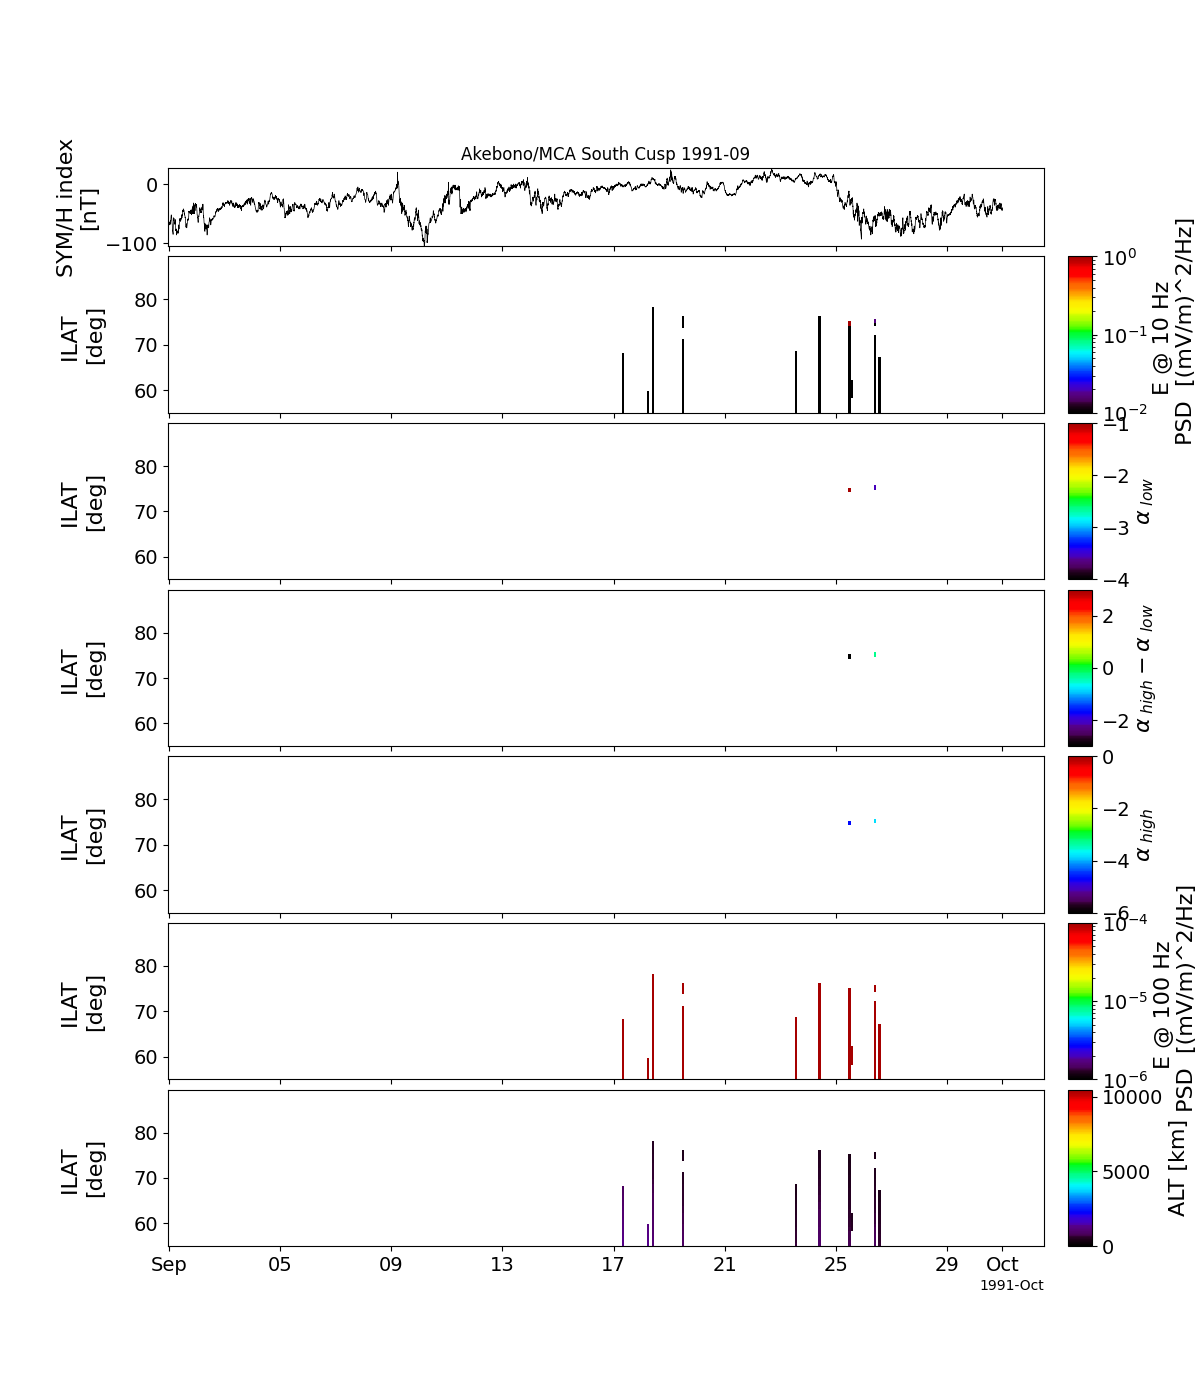
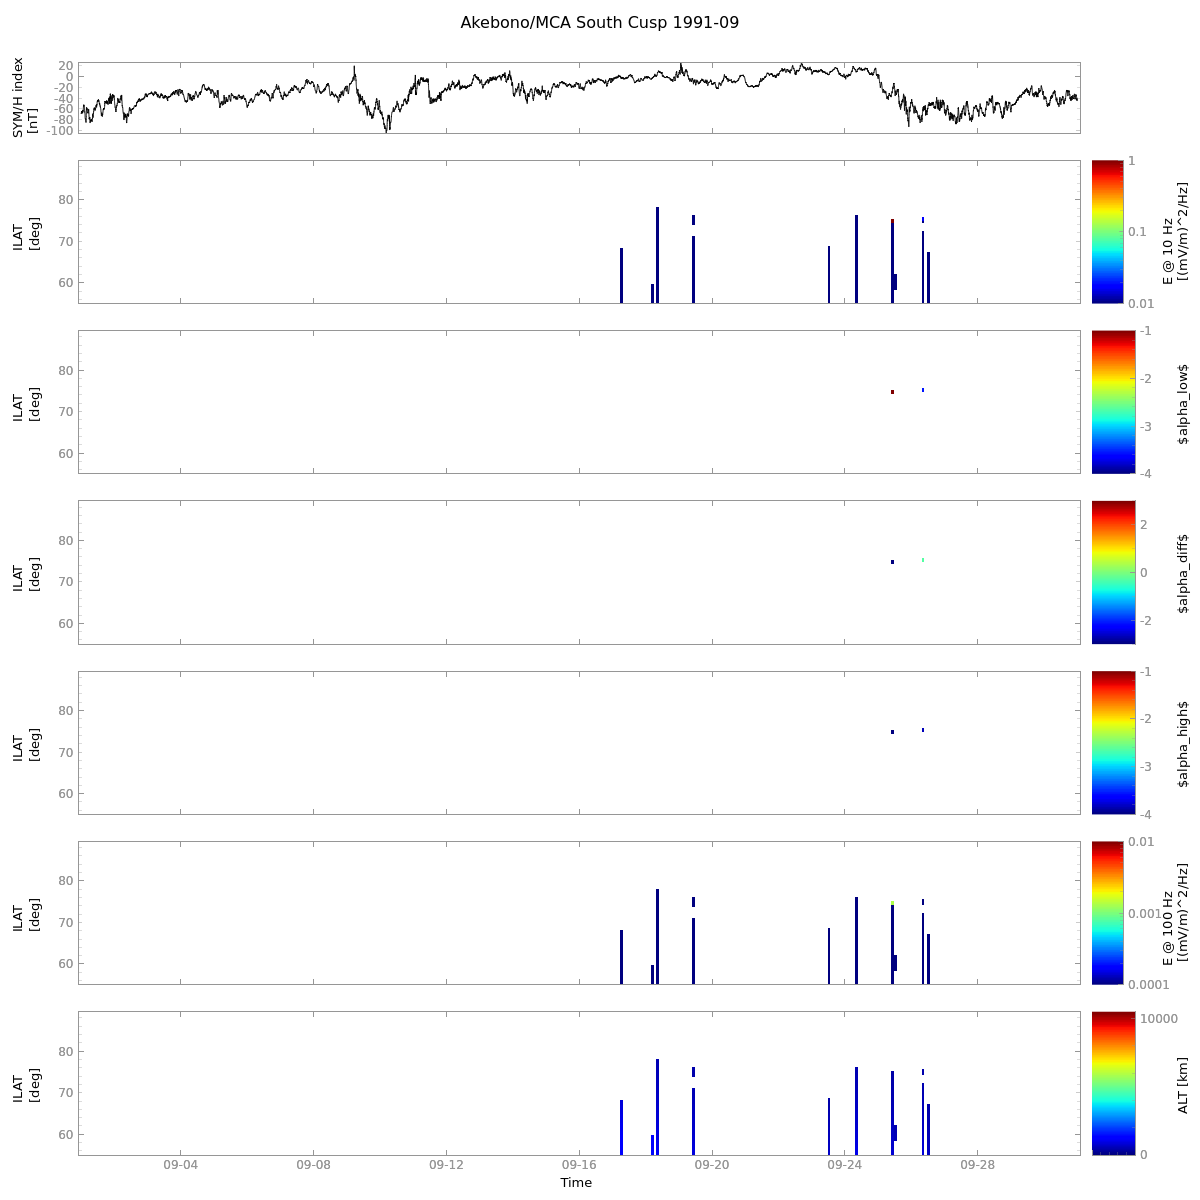
monthly alpha plot ver2.0.2

diff --git a/VLF_mca/mca_monthly_alpha.py b/VLF_mca/mca_monthly_alpha.py
@@ -90,7 +90,6 @@ def mca_monthly_plot(start_date = '1989-03-01', end_date = '1989-04-01', unit_ti
         hours = np.arange(start_time_hour, start_time_hour + (unit_per_day + 1)*unit_time_width, unit_time_width)
         
         Emax_tvar = get_data('Emax_'+spec_type)
-        Bmax_tvar = get_data('Bmax_'+spec_type)
         
         #calc power law alpha 
         def reg1dim(x, y):
@@ -161,7 +160,7 @@ def mca_monthly_plot(start_date = '1989-03-01', end_date = '1989-04-01', unit_ti
                         E10Hz_var_1deg = Emax_tvar.y.T[2][index]
                         E10Hz_list_per_hour.append(np.nanmax(E10Hz_var_1deg))
                         
-                        E100Hz_var_1deg = Bmax_tvar.y.T[6][index]
+                        E100Hz_var_1deg = Emax_tvar.y.T[6][index]
                         E100Hz_list_per_hour.append(np.nanmax(E100Hz_var_1deg))
 
                         alt_1deg = alt_array[index]
@@ -204,7 +203,7 @@ def mca_monthly_plot(start_date = '1989-03-01', end_date = '1989-04-01', unit_ti
     options(['E10Hz'+spec_type+'_N_monthly', 'E10Hz'+spec_type+'_S_monthly'], 'zsubtitle', '[(mV/m)^2/Hz]')
     options(['E10Hz'+spec_type+'_N_monthly', 'E10Hz'+spec_type+'_S_monthly'], 'zrange', [1e-2, 1])
     options(['E100Hz'+spec_type+'_N_monthly', 'E100Hz'+spec_type+'_S_monthly'], 'zsubtitle', '[(mV/m)^2/Hz]')
-    options(['E100Hz'+spec_type+'_N_monthly', 'E100Hz'+spec_type+'_S_monthly'], 'zrange', [1e-5, 1e-3])
+    options(['E100Hz'+spec_type+'_N_monthly', 'E100Hz'+spec_type+'_S_monthly'], 'zrange', [1e-4, 1e-2])
 
     store_data('alpha_low_N', data={'x':times, 'y':north_alpha_low_freq_matrix, 'v':lat_array})
     store_data('alpha_low_S', data={'x':times, 'y':south_alpha_low_freq_matrix, 'v':lat_array})
@@ -215,11 +214,11 @@ def mca_monthly_plot(start_date = '1989-03-01', end_date = '1989-04-01', unit_ti
     options(['alpha_low_N', 'alpha_low_S', 'alpha_high_N', 'alpha_high_S', 'alpha_diff_N', 'alpha_diff_S'], 'spec', 1)
     options(['alpha_low_N', 'alpha_low_S', 'alpha_high_N', 'alpha_high_S', 'alpha_diff_N', 'alpha_diff_S'], 'ytitle', 'ILAT \n[deg]')
     options(['alpha_low_N', 'alpha_low_S'], 'zrange', [-4, -1])
-    options(['alpha_low_N', 'alpha_low_S'], 'ztitle', r'$\alpha_{\ low}$')
+    options(['alpha_low_N', 'alpha_low_S'], 'ztitle', 'alpha_low')
     options(['alpha_high_N', 'alpha_high_S'], 'zrange', [-4, -1])
-    options(['alpha_high_N', 'alpha_high_S'], 'ztitle', r'$\alpha_{\ high}$')
+    options(['alpha_high_N', 'alpha_high_S'], 'ztitle', 'alpha_high')
     options(['alpha_diff_N', 'alpha_diff_S'], 'zrange', [-3, 3])
-    options(['alpha_diff_N','alpha_diff_S'], 'ztitle', r'$\alpha_{\ high} - \alpha_{\ low}$')
+    options(['alpha_diff_N','alpha_diff_S'], 'ztitle', 'alpha_diff') 
 
     store_data('ALT_N', data={'x':times, 'y':north_alt_matrix, 'v':lat_array})
     store_data('ALT_S', data={'x':times, 'y':south_alt_matrix, 'v':lat_array})
@@ -246,23 +245,24 @@ def mca_monthly_plot(start_date = '1989-03-01', end_date = '1989-04-01', unit_ti
         print(e)
         pass
     
-    tplot_options('axis_font_size', 14)
-    tplot_options('wsize', [1800, 2000])
+    #tplot_options('axis_font_size', 20)
+    #tplot_options('title_size', 24)
+    tplot_options('wsize', [1200, 1200])
     
     tplot_options('title','Akebono/MCA South Cusp ' + start_date[:7]) 
-    options(['SYM_H', 'E10Hz'+spec_type+'_S_monthly','E100Hz'+spec_type+'_S_monthly', 'alpha_low_S', 'alpha_high_S', 'alpha_diff_S', 'ALT_S'], 'char_size', 16)
+    #options(['SYM_H', 'E10Hz'+spec_type+'_S_monthly','E100Hz'+spec_type+'_S_monthly', 'alpha_low_S', 'alpha_high_S', 'alpha_diff_S', 'ALT_S'], 'char_size', 12)
     tplot(['SYM_H', 'E10Hz'+spec_type+'_S_monthly', 'alpha_low_S', 'alpha_diff_S', 'alpha_high_S', 'E100Hz'+spec_type+'_S_monthly', 'ALT_S'],
           display = False, save_png=south_save_dir + '/south_monthly_plot_' + start_date[:7] + '_test.png')
     
     tplot_options('title','Akebono/MCA North Cusp ' + start_date[:7])
-    options(['SYM_H', 'E10Hz'+spec_type+'_N_monthly','E100Hz'+spec_type+'_N_monthly', 'alpha_low_N', 'alpha_high_N', 'alpha_diff_N', 'ALT_N'], 'char_size', 16)
+    #options(['SYM_H', 'E10Hz'+spec_type+'_N_monthly','E100Hz'+spec_type+'_N_monthly', 'alpha_low_N', 'alpha_high_N', 'alpha_diff_N', 'ALT_N'], 'char_size', 12)
     tplot(['SYM_H', 'E10Hz'+spec_type+'_N_monthly', 'alpha_low_N', 'alpha_diff_N', 'alpha_high_N', 'E100Hz'+spec_type+'_N_monthly', 'ALT_N'], 
           display = False, save_png=north_save_dir + '/north_monthly_plot_' + start_date[:7] + '_test.png')
 
 
 import pandas as pd
 
-date_list = pd.date_range(start='1990-09-01', end='1990-10-01', freq='MS')
+date_list = pd.date_range(start='1989-03-01', end='1989-04-01', freq='MS')
 date_list = np.datetime_as_string(date_list, unit='D')
 date_list = date_list.astype(object)
 
